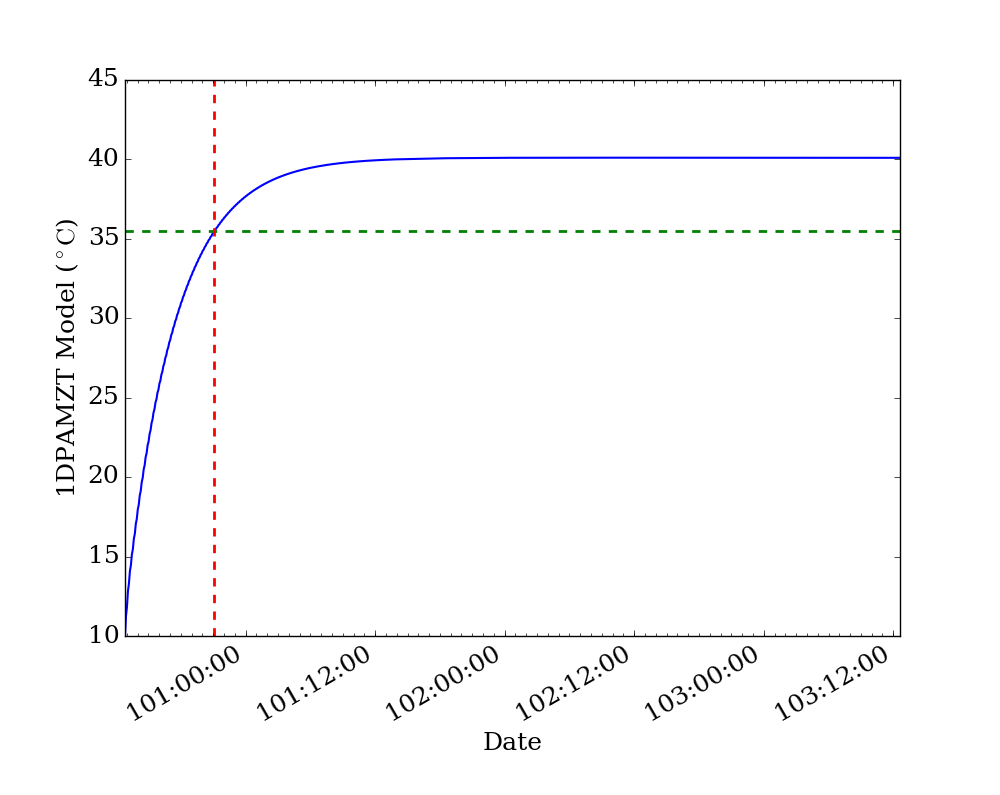
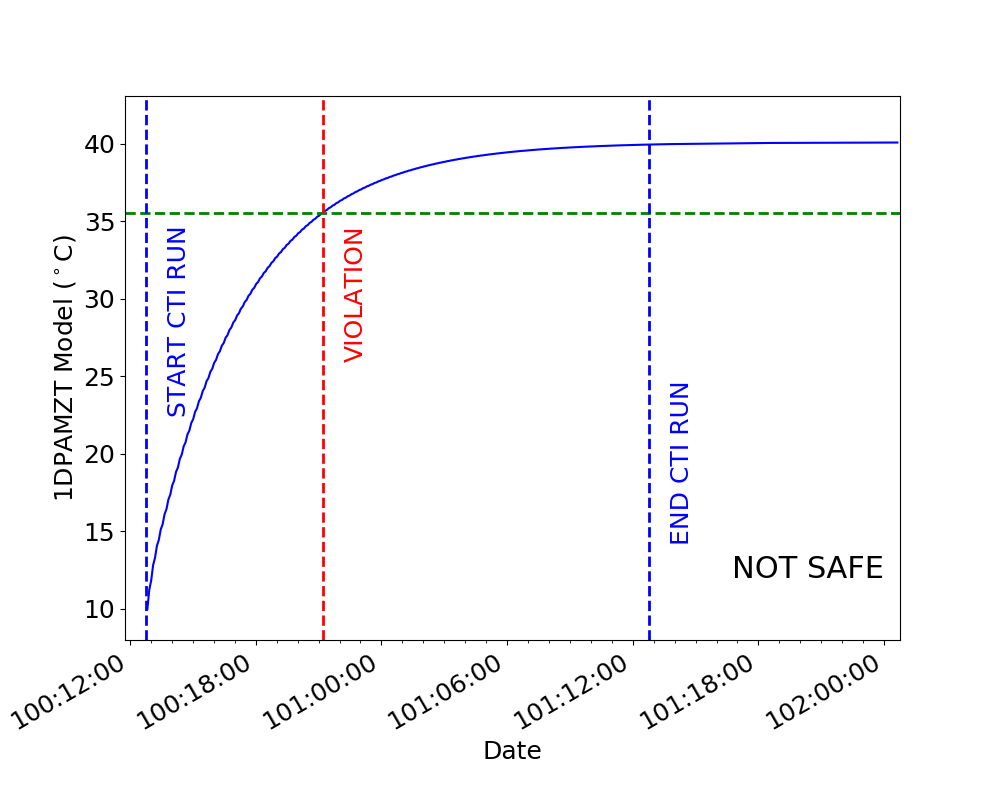
Update command line docs and add more info to the image name

diff --git a/doc/source/command_line.rst b/doc/source/command_line.rst
@@ -259,6 +259,7 @@ Example 1
 To run the 1DPAMZT model with the following conditions:
 
 * Start time: 2015:100:12:45:30
+* Stop time: 2015:101:12:45:30
 * Initial temperature: 10.0 degrees C
 * Pitch: 150 degrees
 * CCD count: 6
@@ -266,27 +267,30 @@ To run the 1DPAMZT model with the following conditions:
 
 .. code-block:: bash
 
-    [~]$ simulate_cti_run dpa 2015:100:12:45:30 10.0 150. 6 --off_nominal_roll 12.0
+    [~]$ simulate_cti_run dpa 2015:100:12:45:30 2015:101:12:45:30 10.0 150. 6 --off_nominal_roll 12.0
 
 Returns:
 
 .. code-block:: text
 
-    acispy: [INFO     ] 2017-04-06 16:09:39,597 Run Parameters
-    acispy: [INFO     ] 2017-04-06 16:09:39,597 --------------
-    acispy: [INFO     ] 2017-04-06 16:09:39,597 Start Datestring: 2015:100:12:45:30
-    acispy: [INFO     ] 2017-04-06 16:09:39,597 Start Time: 5.45057e+08 s
-    acispy: [INFO     ] 2017-04-06 16:09:39,597 Initial Temperature: 10 degrees C
-    acispy: [INFO     ] 2017-04-06 16:09:39,597 CCD Count: 6
-    acispy: [INFO     ] 2017-04-06 16:09:39,597 Pitch: 150
-    acispy: [INFO     ] 2017-04-06 16:09:39,598 SIM Position: -99616
-    acispy: [INFO     ] 2017-04-06 16:09:39,598 Off-nominal Roll: 12
-    acispy: [INFO     ] 2017-04-06 16:09:39,598 Detector Housing Heater: OFF
-    acispy: [INFO     ] 2017-04-06 16:09:39,598 Model Result
-    acispy: [INFO     ] 2017-04-06 16:09:39,598 ------------
-    acispy: [INFO     ] 2017-04-06 16:09:39,599 The limit of 35.5 degrees C will be reached at 2015:100:21:07:04.816, after 30.0948 ksec.
-    acispy: [INFO     ] 2017-04-06 16:09:39,599 The asymptotic temperature is 40.0741 degrees C.
-    acispy: [INFO     ] 2017-04-06 16:09:43,576 Image of the model run has been written to cti_run_dpa_2015:100:12:45:30.png.
+    acispy: [INFO     ] 2017-09-14 14:23:36,930 Run Parameters
+    acispy: [INFO     ] 2017-09-14 14:23:36,930 --------------
+    acispy: [INFO     ] 2017-09-14 14:23:36,930 Start Datestring: 2015:100:12:45:30
+    acispy: [INFO     ] 2017-09-14 14:23:36,930 Start Time: 5.45057e+08 s
+    acispy: [INFO     ] 2017-09-14 14:23:36,930 Stop Datestring: 2015:101:12:45:30.000
+    acispy: [INFO     ] 2017-09-14 14:23:36,930 Stop Time: 5.45144e+08 s
+    acispy: [INFO     ] 2017-09-14 14:23:36,931 Initial Temperature: 10 degrees C
+    acispy: [INFO     ] 2017-09-14 14:23:36,931 CCD Count: 6
+    acispy: [INFO     ] 2017-09-14 14:23:36,931 Pitch: 150.0
+    acispy: [INFO     ] 2017-09-14 14:23:36,931 SIM Position: -99616
+    acispy: [INFO     ] 2017-09-14 14:23:36,931 Off-nominal Roll: 12.0
+    acispy: [INFO     ] 2017-09-14 14:23:36,931 Detector Housing Heater: OFF
+    acispy: [INFO     ] 2017-09-14 14:23:36,931 Model Result
+    acispy: [INFO     ] 2017-09-14 14:23:36,931 ------------
+    acispy: [INFO     ] 2017-09-14 14:23:36,932 The limit of 35.5 degrees C will be reached at 2015:100:21:12:32.816, after 30.4228 ksec.
+    acispy: [INFO     ] 2017-09-14 14:23:36,932 The limit is reached before the end of the CTI run.
+    acispy: [WARNING  ] 2017-09-14 14:23:36,932 This CTI run is NOT safe from a thermal perspective.
+    acispy: [INFO     ] 2017-09-14 14:23:37,499 Image of the model run has been written to cti_run_dpa_6chip_2015:100:12:45:30.png.
 
 .. image:: _images/cti_run.png
 
@@ -296,6 +300,7 @@ Example 2
 To run the 1DEAMZT model with the following conditions:
 
 * Start time: 2017:069:15:40:00
+* Stop time: 2017:070:10:00:00
 * Initial temperature: 7.5 degrees C
 * Pitch: 150 degrees
 * CCD count: 4
@@ -303,29 +308,77 @@ To run the 1DEAMZT model with the following conditions:
 
 .. code-block:: bash
 
-    [~]$ simulate_cti_run dea 2017:069:15:40:00 7.5 150. 4 --off_nominal_roll 0.0
+    [~]$ simulate_cti_run dea 2017:069:15:40:00 2017:070:10:00:00 7.5 150. 4 --off_nominal_roll 0.0
 
 Returns:
 
 .. code-block:: text
 
-    acispy: [INFO     ] 2017-04-06 16:10:36,312 Run Parameters
-    acispy: [INFO     ] 2017-04-06 16:10:36,312 --------------
-    acispy: [INFO     ] 2017-04-06 16:10:36,312 Start Datestring: 2017:069:15:40:00
-    acispy: [INFO     ] 2017-04-06 16:10:36,312 Start Time: 6.05548e+08 s
-    acispy: [INFO     ] 2017-04-06 16:10:36,312 Initial Temperature: 7.5 degrees C
-    acispy: [INFO     ] 2017-04-06 16:10:36,312 CCD Count: 4
-    acispy: [INFO     ] 2017-04-06 16:10:36,312 Pitch: 150
-    acispy: [INFO     ] 2017-04-06 16:10:36,313 SIM Position: -99616
-    acispy: [INFO     ] 2017-04-06 16:10:36,313 Off-nominal Roll: 0
-    acispy: [INFO     ] 2017-04-06 16:10:36,313 Detector Housing Heater: OFF
-    acispy: [INFO     ] 2017-04-06 16:10:36,313 Model Result
-    acispy: [INFO     ] 2017-04-06 16:10:36,313 ------------
-    acispy: [INFO     ] 2017-04-06 16:10:36,313 The limit of 35.5 degrees C is never reached!
-    acispy: [INFO     ] 2017-04-06 16:10:36,314 The asymptotic temperature is 32.3293 degrees C.
-    acispy: [INFO     ] 2017-04-06 16:10:39,215 Image of the model run has been written to cti_run_dea_2017:069:15:40:00.png.
+    acispy: [INFO     ] 2017-09-14 14:26:16,008 Run Parameters
+    acispy: [INFO     ] 2017-09-14 14:26:16,008 --------------
+    acispy: [INFO     ] 2017-09-14 14:26:16,008 Start Datestring: 2017:069:15:40:00
+    acispy: [INFO     ] 2017-09-14 14:26:16,008 Start Time: 6.05548e+08 s
+    acispy: [INFO     ] 2017-09-14 14:26:16,008 Stop Datestring: 2017:070:10:00:00.000
+    acispy: [INFO     ] 2017-09-14 14:26:16,008 Stop Time: 6.05614e+08 s
+    acispy: [INFO     ] 2017-09-14 14:26:16,008 Initial Temperature: 7.5 degrees C
+    acispy: [INFO     ] 2017-09-14 14:26:16,008 CCD Count: 4
+    acispy: [INFO     ] 2017-09-14 14:26:16,008 Pitch: 150.0
+    acispy: [INFO     ] 2017-09-14 14:26:16,009 SIM Position: -99616
+    acispy: [INFO     ] 2017-09-14 14:26:16,009 Off-nominal Roll: 0.0
+    acispy: [INFO     ] 2017-09-14 14:26:16,009 Detector Housing Heater: OFF
+    acispy: [INFO     ] 2017-09-14 14:26:16,009 Model Result
+    acispy: [INFO     ] 2017-09-14 14:26:16,009 ------------
+    acispy: [INFO     ] 2017-09-14 14:26:16,009 The limit of 35.5 degrees C is never reached.
+    acispy: [INFO     ] 2017-09-14 14:26:16,009 This CTI run is safe from a thermal perspective.
+    acispy: [INFO     ] 2017-09-14 14:26:16,546 Image of the model run has been written to cti_run_dea_4chip_2017:069:15:40:00.png.
 
 .. image:: _images/cti_run2.png
+
+Example 3
++++++++++
+
+This example assumes that the vehicle loads are still running, which means
+that the input values of the pitch and the off-nominal roll are ignored in 
+favor of 
+
+To run the 1DPAMZT model with the following conditions:
+
+* Start time: 2017:256:03:20:00 
+* Stop time: 2017:257:15:20:00
+* Initial temperature: 10.0 degrees C
+* Pitch: 0 degrees (the value doesn't matter)
+* CCD count: 6
+* Vehicle load: SEP0917C
+
+.. code-block:: bash
+
+    [~]$ simulate_cti_run dpa 2017:256:03:20:00 2017:257:15:20:00 10.0 0.0 6 --vehicle_load SEP0917C
+
+Returns:
+
+.. code-block:: text
+
+    acispy: [INFO     ] 2017-09-14 15:40:30,008 Modeling a 6-chip CTI run concurrent with the SEP0917C vehicle loads.
+    acispy: [INFO     ] 2017-09-14 15:40:30,684 Run Parameters
+    acispy: [INFO     ] 2017-09-14 15:40:30,685 --------------
+    acispy: [INFO     ] 2017-09-14 15:40:30,685 Start Datestring: 2017:256:03:20:00
+    acispy: [INFO     ] 2017-09-14 15:40:30,685 Start Time: 6.2166e+08 s
+    acispy: [INFO     ] 2017-09-14 15:40:30,685 Stop Datestring: 2017:257:15:20:00.000
+    acispy: [INFO     ] 2017-09-14 15:40:30,685 Stop Time: 6.2179e+08 s
+    acispy: [INFO     ] 2017-09-14 15:40:30,685 Initial Temperature: 10 degrees C
+    acispy: [INFO     ] 2017-09-14 15:40:30,685 CCD Count: 6
+    acispy: [INFO     ] 2017-09-14 15:40:30,685 Pitch: Min: 46.56, Max: 156
+    acispy: [INFO     ] 2017-09-14 15:40:30,686 SIM Position: -99616
+    acispy: [INFO     ] 2017-09-14 15:40:30,686 Off-nominal Roll: Min: -12.5116, Max: 13.7689
+    acispy: [INFO     ] 2017-09-14 15:40:30,686 Detector Housing Heater: OFF
+    acispy: [INFO     ] 2017-09-14 15:40:30,686 Model Result
+    acispy: [INFO     ] 2017-09-14 15:40:30,686 ------------
+    acispy: [INFO     ] 2017-09-14 15:40:30,686 The limit of 35.5 degrees C will be reached at 2017:256:09:17:34.816, after 21.4548 ksec.
+    acispy: [INFO     ] 2017-09-14 15:40:30,686 The limit is reached before the end of the CTI run.
+    acispy: [WARNING  ] 2017-09-14 15:40:30,686 This CTI run is NOT safe from a thermal perspective.
+    acispy: [INFO     ] 2017-09-14 15:40:31,526 Image of the model run has been written to cti_run_dpa_6chip_2017:256:03:20:00.png.
+
+.. image:: _images/cti_run3.png
 
 ``phase_scatter_plot``
 ----------------------
